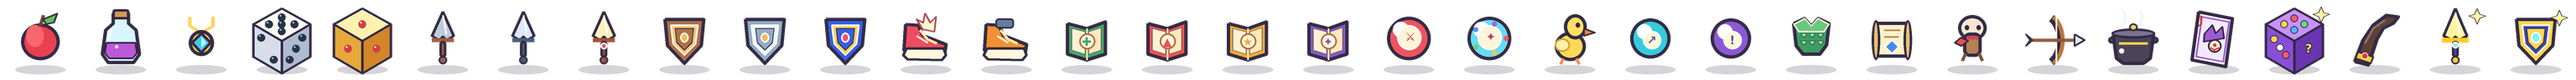
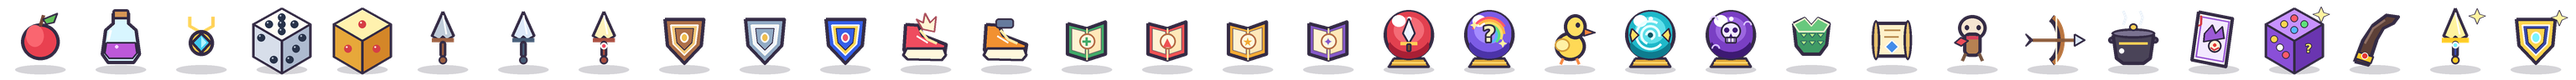
Redraw orb items (剣玉・ぱるぷん玉・吸収玉・ノロイ) as glass orbs on stands with clearer contents
Claude-Session: https://claude.ai/code/session_01Y8UvxYqorfKZuVGLMtA7nQ

Changed region(s): [[0.625, 0.125, 0.6875, 0.875], [0.5312, 0.125, 0.5938, 0.875]]

diff --git a/packages/client/public/sw.js b/packages/client/public/sw.js
@@ -1,5 +1,5 @@
 /* 画像・音の事前キャッシュ（PWA） */
-const CACHE = 'beefhunter-v10';
+const CACHE = 'beefhunter-v11';
 const PRECACHE = ["assets/img/assets_index.json","assets/img/chars/boss_beast.png","assets/img/chars/boss_demon.png","assets/img/chars/boss_dragon.png","assets/img/chars/boss_overlord.png","assets/img/chars/enemy_flytrap.png","assets/img/chars/enemy_golem.png","assets/img/chars/enemy_shadow.png","assets/img/chars/enemy_slime.png","assets/img/chars/enemy_thornbug.png","assets/img/chars/hero_courier.png","assets/img/chars/hero_priest.png","assets/img/chars/hero_spellknight.png","assets/img/chars/hero_summoner.png","assets/img/chars/hero_warrior.png","assets/img/chars/hero_hunter.png","assets/img/chars/hero_chef.png","assets/img/chars/hero_clown.png","assets/img/chars/hero_overlord.png","assets/img/chars/hero_brave.png","assets/img/dice/faces.png","assets/img/dice/ichi.png","assets/img/dice/roll.png","assets/img/fx/absorb.png","assets/img/fx/curse.png","assets/img/fx/cursor.png","assets/img/fx/encount.png","assets/img/fx/explosion.png","assets/img/fx/fire.png","assets/img/fx/gold.png","assets/img/fx/heal.png","assets/img/fx/hit.png","assets/img/fx/paru.png","assets/img/fx/paru_kiwami.png","assets/img/fx/piyo.png","assets/img/fx/summon_circle.png","assets/img/fx/summon_seed.png","assets/img/fx/swap.png","assets/img/fx/warp.png","assets/img/items/icons.png","assets/img/npc/dealer.png","assets/img/npc/inn.png","assets/img/npc/merchant.png","assets/img/npc/priest.png","assets/img/npc/shoesage.png","assets/img/npc/smith.png","assets/img/num/damage.png","assets/img/num/gold.png","assets/img/num/heal.png","assets/img/obj/chest.png","assets/img/obj/chest_open.png","assets/img/obj/gold_large.png","assets/img/obj/gold_small.png","assets/img/obj/qbox.png","assets/img/obj/tack.png","assets/img/obj/tack_big.png","assets/img/tiles/bridge.png","assets/img/tiles/forest.png","assets/img/tiles/grass.png","assets/img/tiles/mountain.png","assets/img/tiles/path.png","assets/img/tiles/path_boss.png","assets/img/tiles/path_branch.png","assets/img/tiles/path_lastboss.png","assets/img/tiles/path_start.png","assets/img/tiles/sand.png","assets/img/tiles/sea_0.png","assets/img/tiles/sea_1.png","icons/icon-192.png","icons/icon-512.png","manifest.webmanifest","assets/img/brand/beef-rune.png","assets/img/items/icons-hd.png","assets/img/dice/faces-hd.png","assets/img/dice/roll-hd.png","assets/img/dice/ichi-hd.png","assets/img/dice/chaos-hd.png","assets/img/dice/chaos-roll-hd.png","assets/img/obj/chest-hd.png","assets/img/obj/chest_open-hd.png","assets/img/obj/qbox-hd.png","assets/img/obj/tack-hd.png","assets/img/obj/tack_big-hd.png","assets/img/obj/gold_small-hd.png","assets/img/obj/gold_large-hd.png"];
 
 self.addEventListener('install', (e) => {

diff --git a/gen/polish_assets.py b/gen/polish_assets.py
@@ -68,6 +68,15 @@ def draw_die(top=5, left=2, right=3, gold=False, tilt=0, chaos=False):
     line(d,[(20,28),(48,12),(76,28)], '#ffffff' if not gold else '#fff9ce', 1)
     return im
 
+def orb(d, base, light, dark):
+    """台座つきのガラス玉：下に金の台座、玉は下半分を濃く、左上に白いハイライト"""
+    poly(d,[(30,70),(66,70),(72,80),(24,80)],'#e0a838',INK,3); line(d,[(28,75),(68,75)],'#ffd76a',2)
+    ell(d,(18,12,78,72),base,INK,4)
+    ell(d,(24,40,72,70),dark,None)
+    ell(d,(22,14,74,62),base,None)
+    ell(d,(30,20,66,52),light,None)
+    ell(d,(28,18,44,32),'#ffffff',None); ell(d,(46,20,51,25),'#ffffff',None)
+
 def build_items():
     out=[]
     # 1. Apple, with recognisable twin lobes, stem and leaf.
@@ -97,18 +106,33 @@ def build_items():
     for cover,symbol in [('#40a968','✚'),('#ef5254','▲'),('#f2aa35','★'),('#8559c8','✦')]:
         im=frame();d=ImageDraw.Draw(im); poly(d,[(25,28),(48,34),(70,26),(70,65),(48,72),(25,65)],cover,INK,4); line(d,[(48,34),(48,72)],'#ffe9aa',2); poly(d,[(30,34),(46,38),(46,65),(30,60)],'#fff2d3','#755e66',1); poly(d,[(50,38),(65,33),(65,60),(50,65)],'#ffe8b9','#755e66',1); ell(d,(39,40,58,59),'#fff8df','#b56c45',2); txt(d,(48,50),symbol,cover)
         out.append(im)
-    # 18. Sword sigil attack orb; 19. rainbow burst orb.
-    for col,mark in [('#ef535e','⚔'),('#66dcf3','✦')]:
-        im=frame();d=ImageDraw.Draw(im); ell(d,(22,20,74,72),col,INK,4); ell(d,(29,26,48,45),'#ffffff70',None); ell(d,(34,30,63,60),'#fff4d8',WHITE,2); txt(d,(50,44),mark,'#c33c56');
-        if col=='#66dcf3':
-            for a,c in enumerate(['#f45a65','#ffc647','#70cd74','#568fee','#9f67dc']):
-                angle=a*2*math.pi/5; ell(d,(48+math.cos(angle)*20-3,46+math.sin(angle)*18-3,48+math.cos(angle)*20+3,46+math.sin(angle)*18+3),c,None)
-        out.append(im)
+    # 18. Sword orb: ruby glass ball holding a clear silver sword.
+    im=frame();d=ImageDraw.Draw(im); orb(d,'#e2404f','#f46b76','#a81f35')
+    poly(d,[(48,22),(55,40),(48,52),(41,40)],'#eef4ff',INK,2); line(d,[(48,25),(50,40)],'#ffffff',1); line(d,[(38,52),(58,52)],'#ffcf56',4); rr(d,(45,52,51,62),2,'#7a4a2e',INK,2); out.append(im)
+    # 19. Parupun orb: rainbow-swirl glass ball with a big question mark and stars.
+    im=frame();d=ImageDraw.Draw(im); orb(d,'#7c5ce6','#a58cff','#4b33a8')
+    for k,c in enumerate(['#ff5a6a','#ffb347','#ffe066','#5ee07a','#56b6ff']):
+        d.arc(xy((26+k*3,20+k*3))+xy((70-k*3,64-k*3)),200+k*25,330+k*25,fill=c,width=3*S)
+    from PIL import ImageFont
+    txt(d,(48,41),'?','#fff7c2',font=ImageFont.truetype('/usr/share/fonts/truetype/dejavu/DejaVuSans-Bold.ttf', 26*S),stroke_width=2,stroke_fill=INK)
+    for (x,y) in ((30,30),(64,52)): poly(d,[(x,y-5),(x+1.6,y-1.6),(x+5,y),(x+1.6,y+1.6),(x,y+5),(x-1.6,y+1.6),(x-5,y),(x-1.6,y-1.6)],'#fff3a0',None)
+    out.append(im)
     # 20. Yellow chick with recognizable beak, wing, eye and feet.
     im=frame();d=ImageDraw.Draw(im); ell(d,(30,38,67,73),'#ffd956',INK,4); ell(d,(41,17,68,47),'#ffdf63',INK,4); ell(d,(55,27,60,33),INK,None); poly(d,[(65,34),(78,39),(65,43)],'#f5833d',INK,2); ell(d,(30,46,48,62),'#fff1a5','#d39d3b',2); line(d,[(40,70),(37,77)],'#f1843f',3); line(d,[(56,70),(59,77)],'#f1843f',3); out.append(im)
-    # 21. Absorb vortex orb; 22. purple curse orb.
-    for col,mark in [('#34ccdd','↗'),('#8c59d6','!')]:
-        im=frame();d=ImageDraw.Draw(im); ell(d,(24,22,72,70),col,INK,4); ell(d,(32,29,50,47),'#ffffffbb',None); ell(d,(39,37,61,59),'#fff7d8',WHITE,2); txt(d,(50,48),mark,'#65509c'); out.append(im)
+    # 21. Absorb orb: teal glass ball with an inward vortex and arrows pulling to the centre.
+    im=frame();d=ImageDraw.Draw(im); orb(d,'#1fb8c9','#5fe0ea','#0e7c8f')
+    for k in range(3): d.arc(xy((30+k*6,24+k*6))+xy((66-k*6,60-k*6)),40+k*70,300+k*70,fill='#e8ffff',width=3*S)
+    ell(d,(45,39,51,45),'#0b5563',None)
+    for sx in (-1,1):
+        x=48+sx*22; poly(d,[(x,34),(x-sx*8,42),(x,50),(x+sx*2,42)],'#ffe066',INK,2)
+    out.append(im)
+    # 22. Curse orb: dark violet glass ball with a pale skull and wisps.
+    im=frame();d=ImageDraw.Draw(im); orb(d,'#7a3fc4','#9c66e0','#3d1a73')
+    ell(d,(36,26,60,48),'#f1e9ff',INK,2); rr(d,(41,44,55,52),2,'#f1e9ff',INK,2)
+    ell(d,(40,33,46,39),'#3d1a73',None); ell(d,(50,33,56,39),'#3d1a73',None); poly(d,[(48,40),(46,44),(50,44)],'#3d1a73',None)
+    for x in (44,48,52): line(d,[(x,46),(x,51)],'#3d1a73',1)
+    for (x,y) in ((28,24),(68,30),(30,58)): d.arc(xy((x-5,y-5))+xy((x+5,y+5)),180,360,fill='#d8c2ff',width=2*S)
+    out.append(im)
     # 23. Dragon mail chestplate with scale rows.
     im=frame();d=ImageDraw.Draw(im); poly(d,[(27,28),(40,22),(48,31),(56,22),(69,28),(66,54),(58,65),(38,65),(30,55)],'#3f9b65',INK,4); poly(d,[(27,29),(40,22),(48,31),(56,22),(69,29),(63,38),(33,38)],'#68c87d','#e8efce',2)
     for yy in [42,51]:
